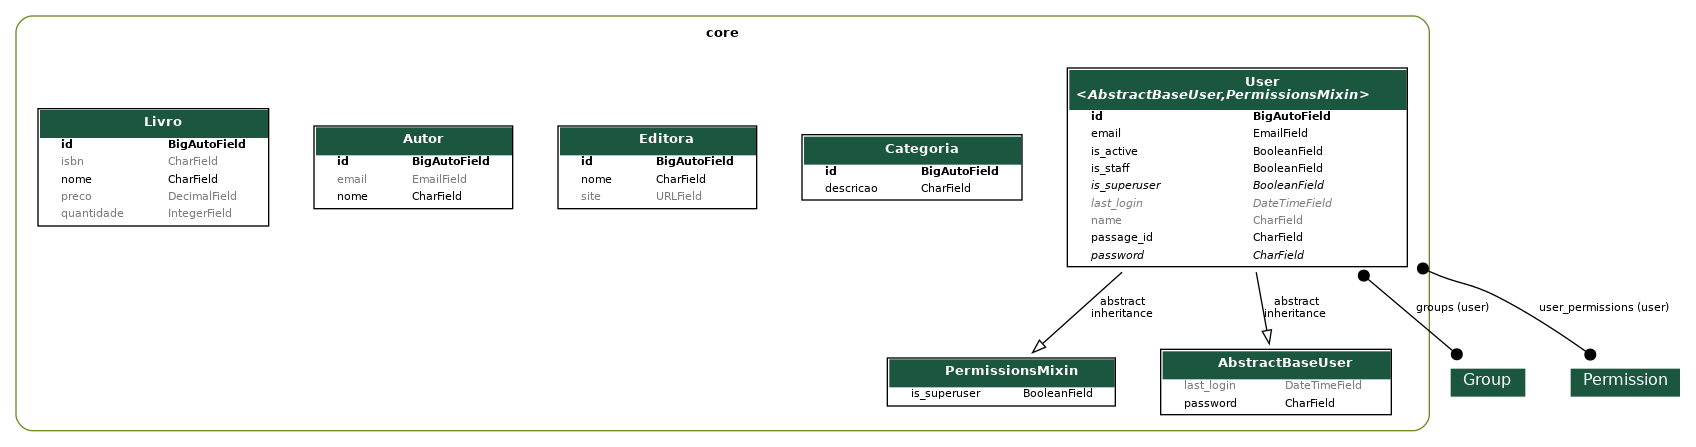
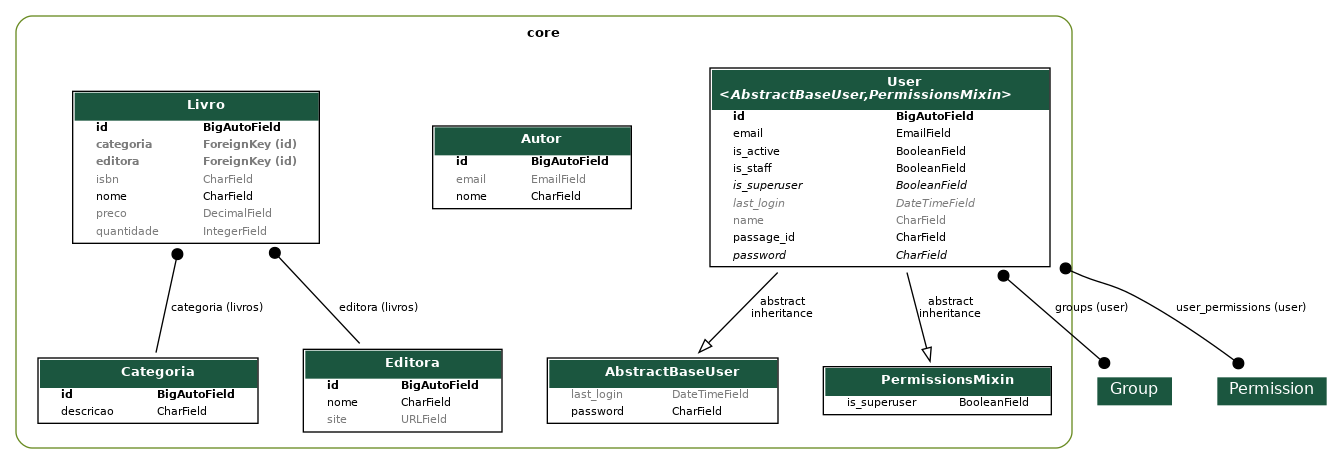
feat: inclusão do relacionamento de Livro com Categoria e Editora

diff --git a/core/models/livro.py b/core/models/livro.py
@@ -1,10 +1,17 @@
 from django.db import models
+from .categoria import Categoria
+from .editora import Editora
 
 class Livro(models.Model):
     nome = models.CharField(max_length=100)
     isbn = models.CharField(max_length=32, blank=True, null=True)
     quantidade = models.IntegerField(default=0, blank=True, null=True)
     preco = models.DecimalField(max_digits=7, decimal_places=2, default=0, blank=True, null=True)
+    categoria = models.ForeignKey(
+        Categoria, on_delete=models.PROTECT, related_name="livros", null=True, blank=True
+    )
+    editora = models.ForeignKey(Editora, on_delete=models.PROTECT, related_name="livros", null=True, blank=True)
+
 
 
     def __str__(self):

diff --git a/core/migrations/0009_livro_categoria.py b/core/migrations/0009_livro_categoria.py
@@ -1,0 +1,19 @@
+# Generated by Django 5.1.7 on 2025-04-15 11:41
+
+import django.db.models.deletion
+from django.db import migrations, models
+
+
+class Migration(migrations.Migration):
+
+    dependencies = [
+        ('core', '0008_livro_alter_autor_options'),
+    ]
+
+    operations = [
+        migrations.AddField(
+            model_name='livro',
+            name='categoria',
+            field=models.ForeignKey(blank=True, null=True, on_delete=django.db.models.deletion.PROTECT, related_name='livros', to='core.categoria'),
+        ),
+    ]

diff --git a/core/migrations/0010_livro_editora.py b/core/migrations/0010_livro_editora.py
@@ -1,0 +1,19 @@
+# Generated by Django 5.1.7 on 2025-04-15 11:51
+
+import django.db.models.deletion
+from django.db import migrations, models
+
+
+class Migration(migrations.Migration):
+
+    dependencies = [
+        ('core', '0009_livro_categoria'),
+    ]
+
+    operations = [
+        migrations.AddField(
+            model_name='livro',
+            name='editora',
+            field=models.ForeignKey(blank=True, null=True, on_delete=django.db.models.deletion.PROTECT, related_name='livros', to='core.editora'),
+        ),
+    ]
